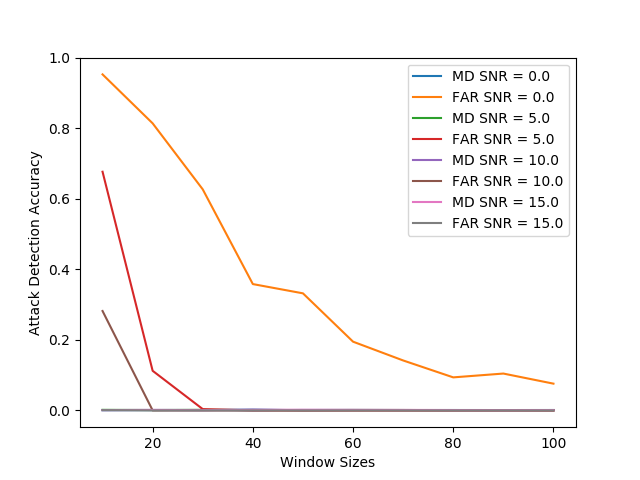
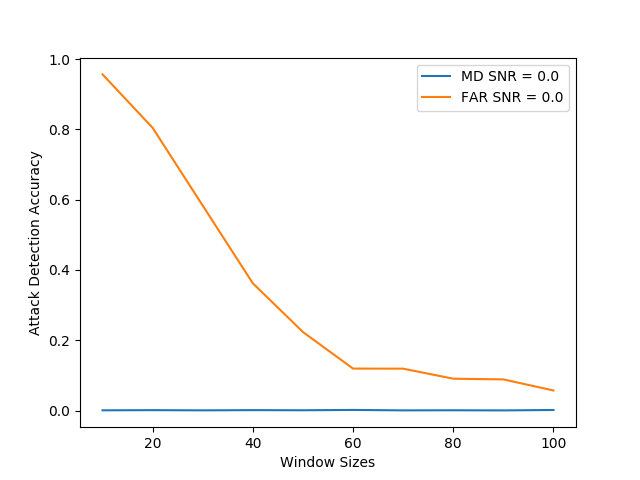
skew added

diff --git a/Capacity_Estimation/generate_curves.py b/Capacity_Estimation/generate_curves.py
@@ -1,0 +1,76 @@
+import pandas as pd
+import numpy as np
+import matplotlib.pyplot as plt
+import os.path
+
+def get_MIs(df, snr, p):
+	temp = df.loc[(df['SNR'] == snr) & (df['Prob'] == p)]
+	return temp.iloc[0]['Iy1'], temp.iloc[0]['Iy1y2']
+
+df_MINE = pd.read_csv('results_mine.csv')
+df_MINE = df_MINE.sort_values(['window'])
+
+df_nn = pd.read_csv('results_nn.csv')
+df_nn = df_nn.sort_values(['window'])
+print(df_nn)
+
+true_df = pd.read_csv('MIs.csv')
+
+snrs = np.unique(df_nn['SNR'].values)
+
+MINE_mi_list = []
+NN_mi_list = []
+
+for i in snrs:
+	I1, I2 = get_MIs(true_df, i, 0.5)
+
+	temp = df_nn.loc[df_nn['SNR'] == i]
+	lab = "MI NN - SNR=" + str(i)
+	pfa = temp['FAR']
+	acheived_mi = I1*(1+pfa)/2.0 + I2*(1-pfa)/2.0
+	NN_mi_list.append(acheived_mi)
+	plt.plot(temp['window'], acheived_mi, label=lab)
+
+	temp = df_MINE.loc[df_MINE['SNR'] == i]
+	lab = "MI MINE - SNR=" + str(i)
+	pfa = temp['FAR']
+	acheived_mi = I1*(1+pfa)/2.0 + I2*(1-pfa)/2.0
+	MINE_mi_list.append(acheived_mi)
+	plt.plot(temp['window'], acheived_mi, label=lab)
+
+	lab = "MI True - SNR=" + str(i)
+	true_mi = (I1*(1)/2.0 + I2*(1)/2.0) * np.ones(len(temp['window']))
+	plt.plot(temp['window'], true_mi, label=lab)
+
+nn = pd.concat(NN_mi_list)
+mine = pd.concat(MINE_mi_list)
+
+print(df_nn)
+df_nn['MI'] = nn
+df_MINE['MI'] = mine
+df_nn = df_nn.round(5)
+df_MINE = df_MINE.round(5)
+
+# if os.path.isfile("MINE_MIs.csv"):
+# 	frame = pd.read_csv("MINE_MIs.csv")
+# 	frame = frame.round(5)
+# 	s1 = pd.merge(frame, df_MINE, how='outer', on=['SNR', 'window', 'p', 'MD', 'FAR', 'MI'], sort=True)
+# 	s1.to_csv("MINE_MIs.csv", index=False)
+
+# else:
+# 	df_MINE.to_csv("MINE_MIs.csv", index=False)
+
+if os.path.isfile("NN_MIs.csv"):
+	frame = pd.read_csv("NN_MIs.csv")
+	frame = frame.round(5)
+	s1 = pd.merge(frame, df_nn, how='outer', on=['SNR', 'window', 'p', 'MD', 'FAR', 'MI'], sort=True)
+	s1.to_csv("NN_MIs.csv", index=False)
+else:
+	df_nn.to_csv("NN_MIs.csv", index=False)
+
+
+# plt.xlabel('Frame Lengths')
+# plt.ylabel('MI Comparision')
+# plt.legend()
+# plt.savefig('Comparision.png')
+# plt.show()

diff --git a/ML_decoder/trainer_shuffle.py b/ML_decoder/trainer_shuffle.py
@@ -106,15 +106,15 @@ def fit_model(X, Y, X_val, Y_val, bs, nb_epoch, model):
 
 def plot_SNR(fname):
     create_csv(fname)
-
-    SNRlist = [0.0, 5.0, 10.0, 15.0]
+    p = 0.4
+    SNRlist = [0.0]
     windowlist = [10, 20, 30, 40, 50, 60, 70, 80, 90, 100]
     for snr in SNRlist:
         fprlist = []
         fnrlist = []
         for w in windowlist:
-            X, Y, A = gen_and_process(p=0.5, SNR=snr, N=100000, window=w)
-            X_val, Y_val, A_val = gen_and_process(p=0.5, SNR=snr, N=50000, window=w)
+            X, Y, A = gen_and_process(p=p, SNR=snr, N=100000, window=w)
+            X_val, Y_val, A_val = gen_and_process(p=p, SNR=snr, N=50000, window=w)
             Y = Y[:, -1:]
             indices = np.arange(len(X))
             np.random.shuffle(indices)
@@ -130,7 +130,7 @@ def plot_SNR(fname):
             fprlist.append(md)
             fnrlist.append(fa)
 
-            res = [snr, w, 0.5, md, fa]
+            res = [snr, w, p, md, fa]
 
             with open(fname, 'a') as myFile:
                 writer = csv.writer(myFile)
@@ -187,4 +187,4 @@ def main():
 
 if __name__ == "__main__":
 	# main()
-    plot_SNR(fname='results_nn.csv')
+    plot_SNR(fname='results_nn0.4.csv')
